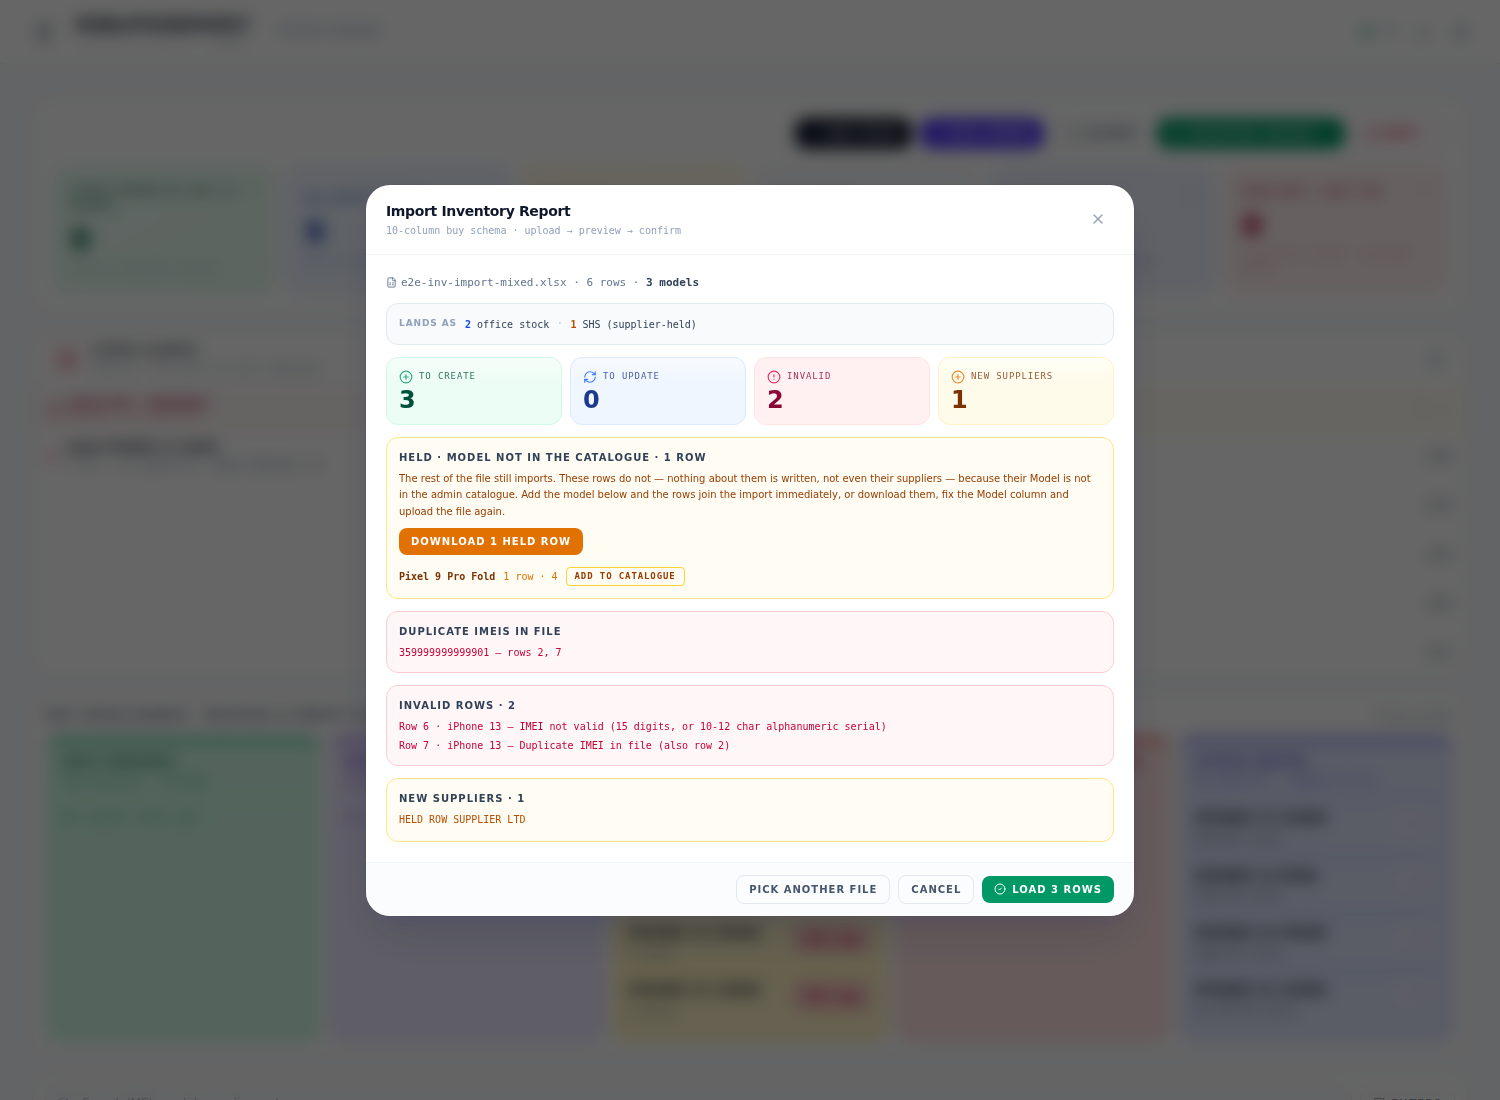
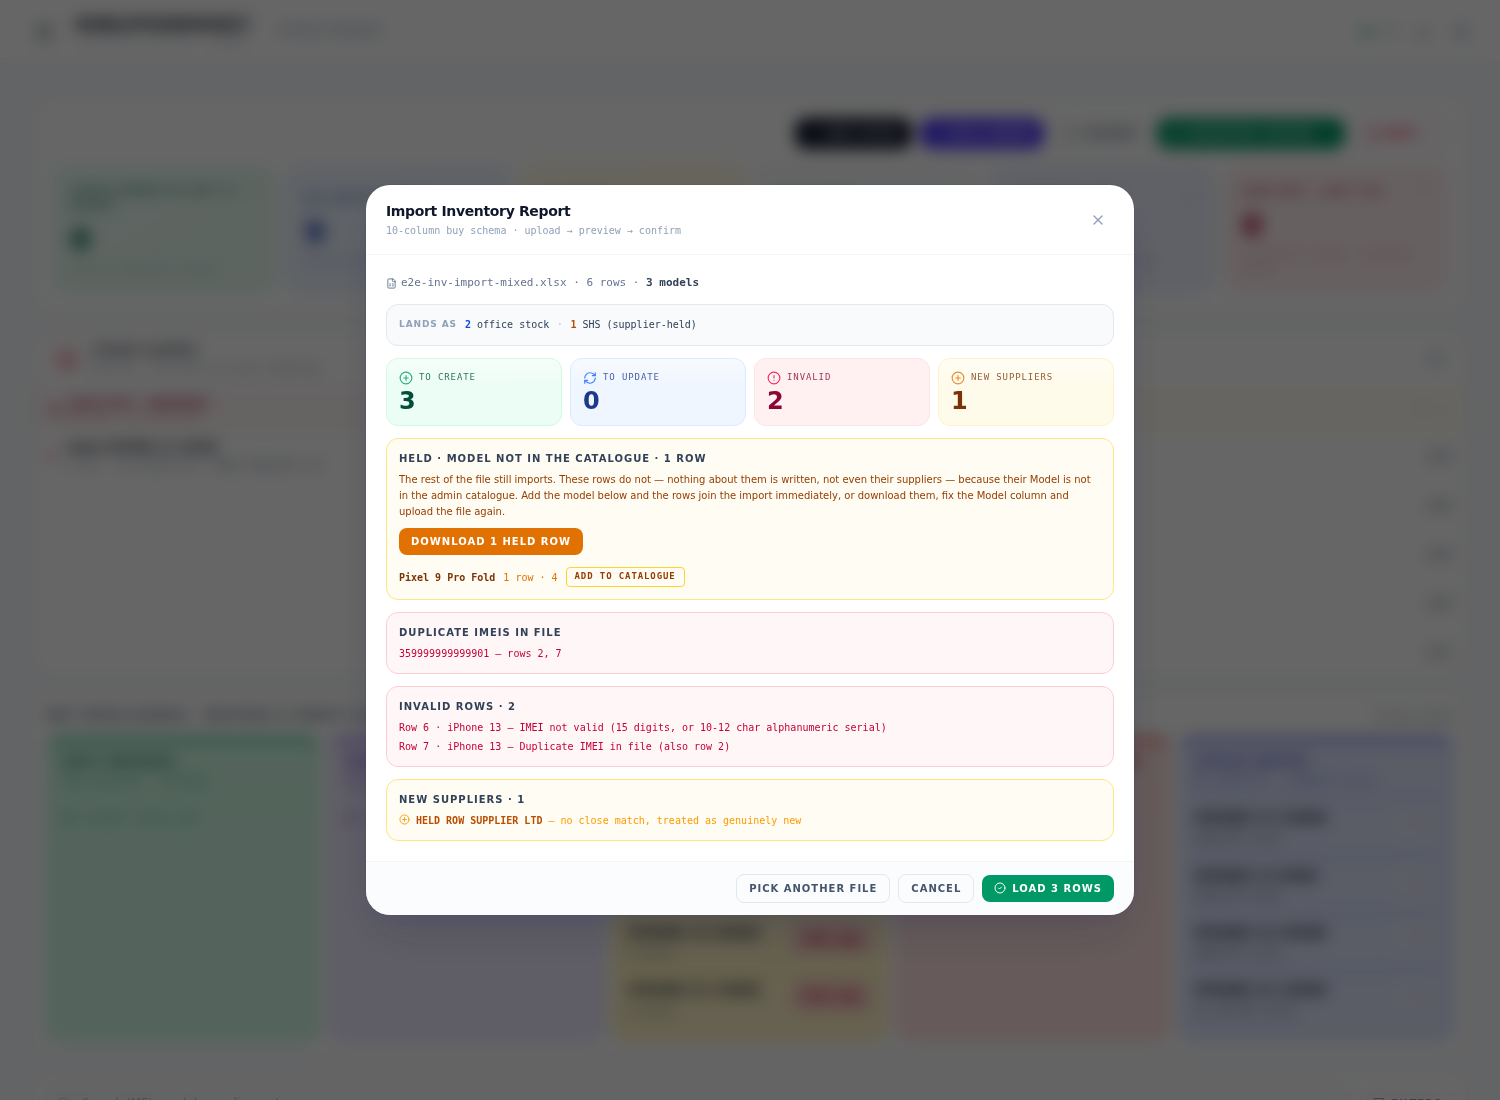
Import: one row per new supplier, so the count and the list agree
Reported immediately after the near-miss check shipped: "it's showing 3 new
suppliers but I'm seeing only two, where's the third one".

The third was there. PHONEBOX DIRECT is genuinely new, resembles nothing on
file, and so drew no warning — which is the check working. But the panel put
the count in the title, two warnings under it, and then repeated all three
names in a comma-separated line at the bottom. Two warnings above a blob of
three names does not read as three, and the one name with nothing wrong with it
was the one that looked missing.

Every new supplier now gets its own row and says which of the two it is:
flagged with the name it resembles, or marked "no close match, treated as
genuinely new". The count in the title and the number of rows below it are the
same number, which is the property that was missing.

E2E section 8 pins both halves — that the warning fires on the right names, and
that rows rendered equals the count in the title. Checked where it broke,
which is the render rather than the data: buildPreview had the third supplier
all along. 34/34 passing.

Claude-Session: https://claude.ai/code/session_01T4LurPsVU5WNa1i8str9pz

diff --git a/src/components/InventoryReportImport.tsx b/src/components/InventoryReportImport.tsx
@@ -1074,31 +1074,51 @@ function PreviewPhase({
 
       {preview.newSuppliers.length > 0 && (
         <DetailPanel title={`New suppliers · ${preview.newSuppliers.length}`} tone="amber">
-          {/* The near misses lead, because they are the only names here with a
-              question attached. The rest are just a list. */}
+          {/* ONE LINE PER SUPPLIER, so the count in the title and the number of
+              lines below it are the same number.
+
+              They were not. The panel showed "3", then two warnings, then a
+              separate comma-separated list of all three — and the operator
+              asked where the third had gone. The unflagged name was in the
+              list, but two warnings above a blob of three names reads as two
+              things, not three. Every new supplier now gets its own row and
+              says which of the two it is. */}
+          <ul className="space-y-1">
+            {preview.newSuppliers.map(name => {
+              const miss = preview.supplierNearMisses.find(m => m.candidate === name);
+              return (
+                <li key={name} className="text-[10px] font-mono flex items-start gap-1.5">
+                  {miss ? (
+                    <>
+                      <AlertTriangle size={11} className="mt-px flex-shrink-0 text-rose-600" />
+                      <span className="text-rose-700">
+                        <strong>{name}</strong> — did you mean <strong>{miss.match}</strong>?
+                        {miss.kind === 'punctuation'
+                          ? ' Same letters, different spacing.'
+                          : ` ${miss.distance} character${miss.distance === 1 ? '' : 's'} apart.`}
+                      </span>
+                    </>
+                  ) : (
+                    <>
+                      <PlusCircle size={11} className="mt-px flex-shrink-0 text-amber-500" />
+                      <span className="text-amber-700">
+                        <strong>{name}</strong>
+                        <span className="text-amber-500"> — no close match, treated as genuinely new</span>
+                      </span>
+                    </>
+                  )}
+                </li>
+              );
+            })}
+          </ul>
           {preview.supplierNearMisses.length > 0 && (
-            <div className="mb-2 space-y-1">
-              {preview.supplierNearMisses.map(m => (
-                <p key={m.candidate} className="text-[10px] font-mono text-rose-700 flex items-start gap-1.5">
-                  <AlertTriangle size={11} className="mt-px flex-shrink-0" />
-                  <span>
-                    <strong>{m.candidate}</strong> — did you mean <strong>{m.match}</strong>?
-                    {m.kind === 'punctuation'
-                      ? ' Same letters, different spacing.'
-                      : ` ${m.distance} character${m.distance === 1 ? '' : 's'} apart.`}
-                  </span>
-                </p>
-              ))}
-              <p className="text-[9px] text-slate-500 leading-relaxed">
-                Not blocking — these will be created as written. Cancel and fix
-                the Supplier column if they are typos, since a misspelled name
-                becomes its own supplier and splits that supplier's history.
-              </p>
-            </div>
+            <p className="text-[9px] text-slate-500 leading-relaxed mt-2">
+              Not blocking — all of these will be created as written. Cancel and
+              fix the Supplier column if the flagged ones are typos, since a
+              misspelled name becomes its own supplier and splits that
+              supplier's history.
+            </p>
           )}
-          <p className="text-[10px] font-mono text-amber-700 leading-relaxed">
-            {preview.newSuppliers.join(', ')}
-          </p>
         </DetailPanel>
       )}
 
